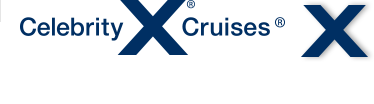
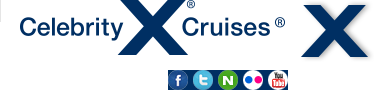
메인 수정

Changed region(s): [[0.4412, 0.6635, 0.7941, 0.8654]]

diff --git a/src/css/celebrity.css b/src/css/celebrity.css
@@ -23,7 +23,18 @@ legend, .blind { position: absolute; top: 0; left: 0; width: 0; height: 0; overf
 
 .blind, .u_skip { visibility: hidden; overflow: hidden; position: absolute; left: -999em; width: 0; height: 0; font-size: 0; color: transparent; line-height: 0; }
 
-.footer .bot_menu .bar, .footer .sns, .combobox, .footer .bi i, .footer .youtube i, .footer .facebook i, .footer .twitter i, .combobox .arrow, .slider-nav button, .page_club .slider-nav button, .page_room .slider-nav button, .page_sail .slider-nav button, .page_res .slider-nav button, .page_ship .slider-nav button, .header .bi i, .header .gnb, .header .gnb li, .symbol_ship .combox-box .arrow, .wrap, .symbol_ship .combox-box, .symbol_thumbnail .grade .thumb_img, .symbol_thumbnail .grade .subs, .symbol_thumbnail .view_membership, .symbol_thumbnail .ask_membership, .info_list .thumbnail .btn_more_bahamas, .info_list .thumbnail .btn_more_bermuda { display: inline-block; *display: inline; *zoom: 1; vertical-align: top; }
+.slider-nav button, .page_club .slider-nav button, .page_room .slider-nav button, .page_sail .slider-nav button, .page_res .slider-nav button, .page_ship .slider-nav button, .footer .bi i, .footer .sns a i, .combobox .arrow, .header .bi i, .header .gnb, .header .gnb li, .symbol_ship .combox-box .arrow, .footer .bot_menu .bar, .footer .sns, .combobox, .wrap, .symbol_ship .combox-box, .symbol_thumbnail .grade .thumb_img, .symbol_thumbnail .grade .subs, .symbol_thumbnail .view_membership, .symbol_thumbnail .ask_membership, .info_list .thumbnail .btn_more_bahamas, .info_list .thumbnail .btn_more_bermuda { display: inline-block; *display: inline; *zoom: 1; vertical-align: top; }
+
+.slider-nav button, .page_club .slider-nav button, .page_room .slider-nav button, .page_sail .slider-nav button, .page_res .slider-nav button, .page_ship .slider-nav button, .footer .bi i, .footer .sns a i, .combobox .arrow, .header .bi i, .header .gnb, .header .gnb li, .symbol_ship .combox-box .arrow { background-image: url(../im/sp_gnb.png); background-repeat: no-repeat; vertical-align: top; }
+
+.slider-nav button, .page_club .slider-nav button, .page_room .slider-nav button, .page_sail .slider-nav button, .page_res .slider-nav button, .page_ship .slider-nav button { background-image: url(../im/sp_slide.png); border: 0; background-color: transparent; }
+
+.footer .bi i, .footer .sns a i, .combobox i.arrow, .header .bi i, .header i.gnb, .symbol_ship .combox-box i.arrow, .slider-nav button i, .page_club .slider-nav button i, .page_room .slider-nav button i, .page_sail .slider-nav button i, .page_res .slider-nav button i, .page_ship .slider-nav button i, .section_head .tit i, .symbol_thumbnail .view_membership i, .symbol_thumbnail .ask_membership i, .info_list .thumbnail .btn_more i, .info_list .thumbnail .btn_more_bahamas i, .info_list .thumbnail .btn_more_bermuda i, .slider-nav button span { font: 0/0 a; color: transparent; }
+
+.footer .footer_cover, .symbol_thumbnail .grade, .info_list { zoom: 1; }
+.footer .footer_cover:after, .symbol_thumbnail .grade:after, .info_list:after { content: ''; clear: both; height: 0; display: block; visibility: hidden; }
+
+.footer, .header, .hero, .container, .article, .info_list { width: 916px; margin: 0 auto; position: relative; zoom: 1; }
 
 .wrap { background: url(../im/body_bg/bg_main_body.jpg) no-repeat center top; }
 .wrap.page_club { background-image: url(../im/body_bg/bg_club_body.jpg); }
@@ -40,7 +51,7 @@ legend, .blind { position: absolute; top: 0; left: 0; width: 0; height: 0; overf
 .slider-body { height: 418px; overflow: hidden; zoom: 1; background-color: #fff; /* .cover{@extend %inline-block;white-space:nowrap;font-size:0;position:relative;cursor: move} */ }
 .slider-body .cover { cursor: move; position: absolute; left: 0; top: 0; width: 916px; height: 418px; overflow: hidden; }
 .slider-body .item { position: absolute; }
-.slider-body .caption { position: absolute; bottom: 0; right: 0; text-align: right; color: #fff; }
+.slider-body .caption { position: absolute; bottom: 9px; right: 0; text-align: right; color: #fff; background-color: #002f63; padding: 3px 11px 4px 5px; }
 .slider-body img { vertical-align: top; }
 
 .slider-nav { position: absolute; bottom: 7px; left: 50%; margin-left: -100px; font-size: 0; }
@@ -54,35 +65,26 @@ legend, .blind { position: absolute; top: 0; left: 0; width: 0; height: 0; overf
 .footer .footer_cover { background-color: #002f63; position: relative; zoom: 1; }
 .footer .bi { float: left; padding: 28px 68px 28px 26px; }
 .footer .bi i { width: 160px; height: 34px; background-position: 0 -70px; }
-.footer .copyright { overflow: hidden; padding: 33px 0 0 0; color: #fff; }
-.footer .copyright a { color: #fff; font-size: 0.9em; }
-.footer .copyright .bar { padding: 0 10px; font-size: 0.9em; }
-.footer .copyright p { font-size: 0.8em; padding-top: 10px; }
-.footer .connect_sns { position: absolute; right: 0; top: 0; padding: 29px 29px 29px 0; }
-.footer .sns { color: #fff; line-height: 26px; padding: 3px 0; margin-right: 7px; }
-.footer .sns a { margin-left: 5px; }
-.footer .youtube i { width: 26px; height: 26px; background-position: -180px -70px; }
-.footer .facebook i { width: 26px; height: 26px; background-position: -215px -70px; }
-.footer .twitter i { width: 33px; height: 26px; background-position: -249px -70px; }
+.footer .copyright { overflow: hidden; padding: 14px 0 0 0; color: #fff; /* 		a{color:#fff;font-size:0.9em} */ /* 		.bar{padding:0 10px;font-size:0.9em} */ }
+.footer .copyright address { font-size: 1em; color: #fff; display: block; margin-bottom: 5px; }
+.footer .copyright p { font-size: 0.7em; line-height: 14px; color: #d1d5dd; }
+.footer .connect_sns { position: absolute; right: 0; top: 0; padding: 14px 29px 29px 0; }
+.footer .sns { color: #fff; line-height: 20px; padding: 3px 0; font-size: 0.9em; }
+.footer .sns a { margin-left: 1px; }
+.footer .sns a i { width: 20px; height: 20px; }
+.footer .facebook i { background-position: -168px -70px; }
+.footer .twitter i { background-position: -193px -70px; }
+.footer .naver i { background-position: -218px -70px; }
+.footer .flickr i { background-position: -243px -70px; }
+.footer .youtube i { background-position: -268px -70px; }
 
-.combobox { position: relative; zoom: 1; }
-.combobox .cb-button { border: 1px solid #fff; background: transparent; color: #fff; height: 30px; line-height: 30px; padding: 0 12px; box-sizing: content-box; cursor: pointer; }
-.combobox .arrow { width: 11px; height: 30px; background-position: -306px -68px; margin-left: 50px; }
+.combobox { position: absolute; right: 29px; top: 44px; zoom: 1; }
+.combobox .cb-button { border: 1px solid #fff; background: transparent; color: #fff; height: 30px; line-height: 30px; padding: 0 12px; box-sizing: content-box; cursor: pointer; white-space: nowrap; min-width: 180px; text-align: left; }
+.combobox .arrow { width: 11px; height: 30px; background-position: -306px -68px; position: absolute; right: 12px; top: 1px; }
 .combobox .cb-layer { position: absolute; width: 100%; top: 100%; margin-top: -1px; }
 .combobox .cb-layer ul { border: 1px solid #fff; background-color: #002f63; }
 .combobox .cb-layer a { color: #fff; display: block; padding: 6px 12px 5px; }
 .combobox .cb-layer a:hover { color: #002f63; background-color: #fff; }
-
-.footer .bi i, .footer .youtube i, .footer .facebook i, .footer .twitter i, .combobox .arrow, .slider-nav button, .page_club .slider-nav button, .page_room .slider-nav button, .page_sail .slider-nav button, .page_res .slider-nav button, .page_ship .slider-nav button, .header .bi i, .header .gnb, .header .gnb li, .symbol_ship .combox-box .arrow { background-image: url(../im/sp_gnb.png); background-repeat: no-repeat; vertical-align: top; }
-
-.slider-nav button, .page_club .slider-nav button, .page_room .slider-nav button, .page_sail .slider-nav button, .page_res .slider-nav button, .page_ship .slider-nav button { background-image: url(../im/sp_slide.png); border: 0; background-color: transparent; }
-
-.footer .bi i, .footer .youtube i, .footer .facebook i, .footer .twitter i, .combobox i.arrow, .header .bi i, .header i.gnb, .symbol_ship .combox-box i.arrow, .slider-nav button i, .page_club .slider-nav button i, .page_room .slider-nav button i, .page_sail .slider-nav button i, .page_res .slider-nav button i, .page_ship .slider-nav button i, .section_head .tit i, .symbol_thumbnail .view_membership i, .symbol_thumbnail .ask_membership i, .info_list .thumbnail .btn_more i, .info_list .thumbnail .btn_more_bahamas i, .info_list .thumbnail .btn_more_bermuda i, .slider-nav button span { font: 0/0 a; color: transparent; }
-
-.footer .footer_cover, .symbol_thumbnail .grade, .info_list { zoom: 1; }
-.footer .footer_cover:after, .symbol_thumbnail .grade:after, .info_list:after { content: ''; clear: both; height: 0; display: block; visibility: hidden; }
-
-.footer, .header, .hero, .container, .article, .info_list { width: 916px; margin: 0 auto; position: relative; zoom: 1; }
 
 .wrap { min-width: 100%; }
 
@@ -99,7 +101,7 @@ legend, .blind { position: absolute; top: 0; left: 0; width: 0; height: 0; overf
 .header .gnb .sub { display: none; }
 .header .gnb li.selected a { position: relative; z-index: 20; color: #fff; }
 .header .gnb li.selected .sub { display: block; }
-.header .gnb .sub { position: absolute; top: 0; left: 0; width: 100%; background-color: #002859; padding-top: 52px; z-index: 10; line-height: normal; }
+.header .gnb .sub { position: absolute; top: 0; left: 0; width: 100%; background-color: #002859; padding-top: 55px; padding-bottom: 14px; z-index: 10; line-height: normal; }
 .header .gnb .sub li { background: none transparent; height: auto; line-height: 35px; padding-bottom: 3px; }
 .header .gnb .sub a { font-size: 1.1em; }
 .header .gnb .sub a:hover { color: #299be1; }

diff --git a/src/scss/incl/_footer.scss b/src/scss/incl/_footer.scss
@@ -11,24 +11,30 @@ $footer-color:#002f63;
 		i{@extend %sp-gnb;width:160px;height:34px;background-position:0 -70px}		
 	}
 	.copyright{
-		overflow:hidden;padding:33px 0 0 0;color:#fff;
-		a{color:#fff;font-size:0.9em}
-		.bar{padding:0 10px;font-size:0.9em}
-		p{font-size:0.8em;padding-top:10px}
+		overflow:hidden;padding:14px 0 0 0;color:#fff;
+		address{font-size:1em;color:#fff;display:block;margin-bottom:5px}
+/* 		a{color:#fff;font-size:0.9em} */
+/* 		.bar{padding:0 10px;font-size:0.9em} */
+		p{font-size:0.7em;line-height:14px;color:#d1d5dd}
 	}
-	.connect_sns{position:absolute;right:0;top:0;padding:29px 29px 29px 0}
-	.sns{color:#fff;@extend %inline-block;line-height:26px;padding:3px 0;margin-right:7px}
-	.sns a{margin-left:5px}
-	.youtube i{@extend %sp-gnb;width:26px;height:26px;background-position:-180px -70px}
-	.facebook i{@extend %sp-gnb;width:26px;height:26px;background-position:-215px -70px}
-	.twitter i{@extend %sp-gnb;width:33px;height:26px;background-position:-249px -70px}
+	.connect_sns{position:absolute;right:0;top:0;padding:14px 29px 29px 0}
+	.sns{color:#fff;@extend %inline-block;line-height:20px;padding:3px 0;font-size:0.9em}
+	.sns a{margin-left:1px}
+	.sns a i{@extend %sp-gnb;width:20px;height:20px}
+	.facebook i{background-position:-168px -70px}
+	.twitter i{background-position:-193px -70px}
+	.naver i{background-position:-218px -70px}
+	.flickr i{background-position:-243px -70px}
+	.youtube i{background-position:-268px -70px}
+	
+	
 	
 }
 
 .combobox{
-	@extend %inline-block;position:relative;zoom:1;
-	.cb-button{border:1px solid #fff;background:transparent;color:#fff;height:30px;line-height:30px;padding:0 12px;box-sizing:content-box;cursor:pointer}
-	.arrow{width:11px;height:30px;@extend %sp-gnb;background-position:-306px -68px;margin-left:50px}
+	@extend %inline-block;position:absolute;right:29px;top:44px;zoom:1;
+	.cb-button{border:1px solid #fff;background:transparent;color:#fff;height:30px;line-height:30px;padding:0 12px;box-sizing:content-box;cursor:pointer;white-space:nowrap;min-width:180px;text-align:left}
+	.arrow{width:11px;height:30px;@extend %sp-gnb;background-position:-306px -68px;position:absolute;right:12px;top:1px}
 	.cb-layer{position:absolute;width:100%;top:100%;margin-top:-1px}
 	.cb-layer ul{border:1px solid #fff;background-color:$footer-color}
 	.cb-layer a{color:#fff;display:block;padding:6px 12px 5px;}

diff --git a/src/index.html b/src/index.html
@@ -7,19 +7,35 @@
 <title>Celebrity - index</title>
 <link href="css/celebrity.css" media="all" rel="stylesheet" type="text/css" />
 <style>
-	ul{margin:30px}
+.container{padding:30px;}
+h2{margin-bottom:10px}
+	ul{margin:0;padding-left:15px}
 	li{line-height:1.5em}
 	em{display:inline-block;min-width:100px}
 </style>
 </head>
 <body>
-<ul>
-	<li><em>Main</em> <a href="01_main.html">- 01_main.html</a></li>
+<div class="container">
+	<h2><em>Main</em> <a href="01_main.html">- 01_main.html</a></h2>
+	<h2><em>Sub</em></h2>
+	<ul>
+	<li><em>Sub_Intro</em> <!-- <a href="02_sub_intro.html">- 02_sub_intro.html</a> --></li>
+	<li><em>Sub_ship</em> <a href="02_sub_ship.html">- 02_sub_ship.html</a></li>
+	<li><em>Sub_Sail</em> <a href="02_sub_sail.html">- 02_sub_sail.html</a></li>
+	
+	<li><em>Sub_Activity</em> <!-- <a href="02_sub_activity.html">- 02_sub_activity.html</a> --></li>
+	
+	<li><em>Sub_Res/Cafe</em> <a href="02_sub_res_cafe.html">- 02_sub_res_cafe.html</a></li>
+	
+	<li><em>Sub_Spa</em> <!-- <a href="02_sub_spa.html">- 02_sub_spa.html</a> --></li>
+	<li><em>Sub_Enter</em> <!-- <a href="02_sub_enter.html">- 02_sub_enter.html</a> --></li>
 	<li><em>Sub_Room</em> <a href="02_sub_room.html">- 02_sub_room.html</a></li>
 	<li><em>Sub_Club</em> <a href="02_sub_club.html">- 02_sub_club.html</a></li>
-	<li><em>Sub_Sail</em> <a href="02_sub_sail.html">- 02_sub_sail.html</a></li>
-	<li><em>Sub_Res/Cafe</em> <a href="02_sub_res_cafe.html">- 02_sub_res_cafe.html</a></li>
-	<li><em>Sub_ship</em> <a href="02_sub_ship.html">- 02_sub_ship.html</a></li>
+	
+	
+	
 </ul>
+
+</div>
 </body>
 </html>

diff --git a/src/00_footer_main.html b/src/00_footer_main.html
@@ -20,16 +20,19 @@
 		<div class="footer_cover">
 			<span class="bi"><i>Celebrity X Cruises</i></span>
 			<div class="copyright">
-				<a href="#">회사소개</a> <span class="bar">|</span>
-				<a href="#">셀러브리티크루즈 전체보기</a>
-				<p>Copyright © 2014 투어마케팅 코리아. 모든 권리 보유.</p>
+				<address>셀러브리티 크루즈 한국사무소</address>
+				<p>E.customer@rccl.kr / T.02-737-0003</p>
+				<p>Copyright &copy; 1999 ROTAL CARIBBEAN CRUISES LTD.</p>
+				<p>INTERNATIONAL REPRESENTATIVE FOR KOREA ALL RIGHT RESERVED.</p>
 			</div>
 			<div class="connect_sns">
 				<div class="sns">
 					<span>Connect with</span>
-					<a href="#" class="youtube"><i>youtube</i></a>
 					<a href="#" class="facebook"><i>facebook</i></a>
 					<a href="#" class="twitter"><i>twitter</i></a>
+					<a href="#" class="naver"><i>naver</i></a>
+					<a href="#" class="flickr"><i>flickr</i></a>
+					<a href="#" class="youtube"><i>youtube</i></a>
 				</div>
 				<div class="combobox">				
 					<button class="cb-button">Family Sites <span class="arrow"></span></button>

diff --git a/src/scss/page/_main.scss b/src/scss/page/_main.scss
@@ -1,15 +1,5 @@
 @charset "utf-8";
 
-%sp-gnb{background-image:url(../im/sp_gnb.png);background-repeat:no-repeat;@extend %inline-block;vertical-align:top}
-%sp-slide{@extend %sp-gnb;background-image:url(../im/sp_slide.png);border:0;@extend %blind;background-color:transparent}
-i%sp-gnb,%blind i,%hidden{font:0/0 a;color:transparent;}
-
-%clear{
-	zoom:1;
-	&:after{content:'';clear:both;height:0;display:block;visibility:hidden}
-}
-
-%layout{width:916px;margin:0 auto;position:relative;zoom:1}
 
 .wrap{@extend %inline-block;min-width:100%}
 
@@ -35,7 +25,7 @@ i%sp-gnb,%blind i,%hidden{font:0/0 a;color:transparent;}
 			.sub{display:block}
 		}
 		.sub{
-			position:absolute;top:0;left:0;width:100%;background-color:#002859;padding-top:52px;z-index:10;line-height:normal;
+			position:absolute;top:0;left:0;width:100%;background-color:#002859;padding-top:55px;padding-bottom:14px;z-index:10;line-height:normal;
 			li{background:none transparent;height:auto;line-height:35px;padding-bottom:3px}
 			a{font-size:1.1em;&:hover{color:#299be1}}
 

diff --git a/src/scss/common/_mixins.scss b/src/scss/common/_mixins.scss
@@ -2,4 +2,13 @@
 
 %inline-block{display:inline-block;*display:inline;*zoom:1;vertical-align:top}
 
+%sp-gnb{background-image:url(../im/sp_gnb.png);background-repeat:no-repeat;@extend %inline-block;vertical-align:top}
+%sp-slide{@extend %sp-gnb;background-image:url(../im/sp_slide.png);border:0;@extend %blind;background-color:transparent}
+i%sp-gnb,%blind i,%hidden{font:0/0 a;color:transparent;}
 
+%clear{
+	zoom:1;
+	&:after{content:'';clear:both;height:0;display:block;visibility:hidden}
+}
+
+%layout{width:916px;margin:0 auto;position:relative;zoom:1}

diff --git a/src/01_main.html b/src/01_main.html
@@ -26,7 +26,7 @@
 	            <div class="item">
 	            	<a href="#">
 	            		<img src="im/hero/img_cruise_01.jpg" alt="img_cruise_01" width="916" height="418">
-	            		<span class="caption">테스트 텍스트 입니다. </span>
+	            		<span class="caption">가족 여행을 위한 최고의 선택</span>
 	            	</a>
 	            </div>
 	            <div class="item"><a href="#"><img src="im/hero/img_cruise_02.jpg" alt="img_cruise_01" width="916" height="418"></a></div>

diff --git a/src/scss/incl/_slide.scss b/src/scss/incl/_slide.scss
@@ -10,7 +10,7 @@
 	/* .cover{@extend %inline-block;white-space:nowrap;font-size:0;position:relative;cursor: move} */
 	.cover{cursor:move;position:absolute;left:0;top:0;width:916px;height:418px;overflow:hidden}
 	.item{position:absolute}
-	.caption{position:absolute;bottom:0;right:0;text-align:right;color:#fff}
+	.caption{position:absolute;bottom:9px;right:0;text-align:right;color:#fff;background-color:#002f63;padding:3px 11px 4px 5px}
 	img{vertical-align:top}
 }
 .slider-nav{

diff --git a/src/00_header.html b/src/00_header.html
@@ -26,7 +26,7 @@
 				</ul>
 			</li>
 			<li class="enjoy_cruise">
-				<a href="#" class="gnb_menu">크루즈 즐기기</a>
+				<a href="#" class="gnb_menu">셀러브리티즐기기</a>
 				<ul class="sub">
 					<li><a href="#">셀러브리티 라이프 액티비티</a></li>
 					<li><a href="#">레스토랑 &amp; 카페</a></li>
